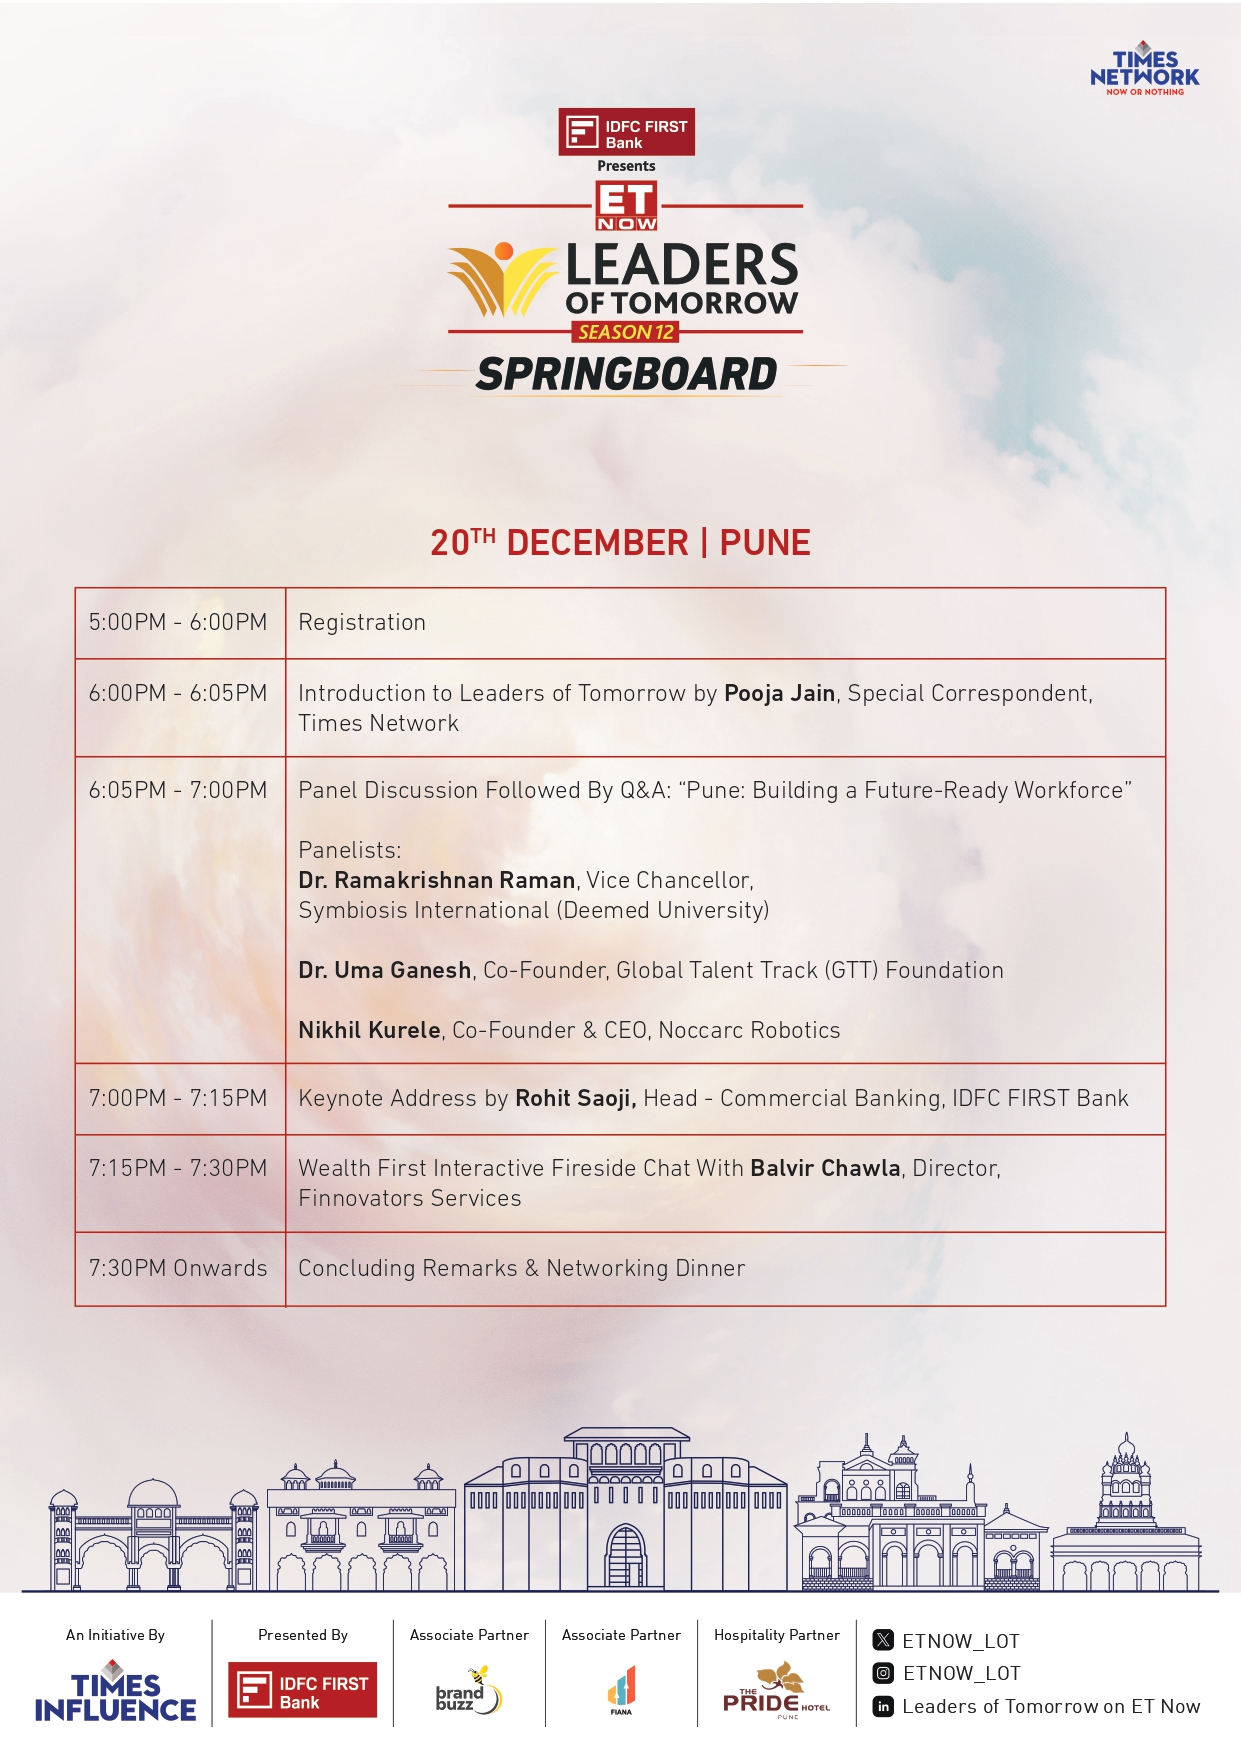
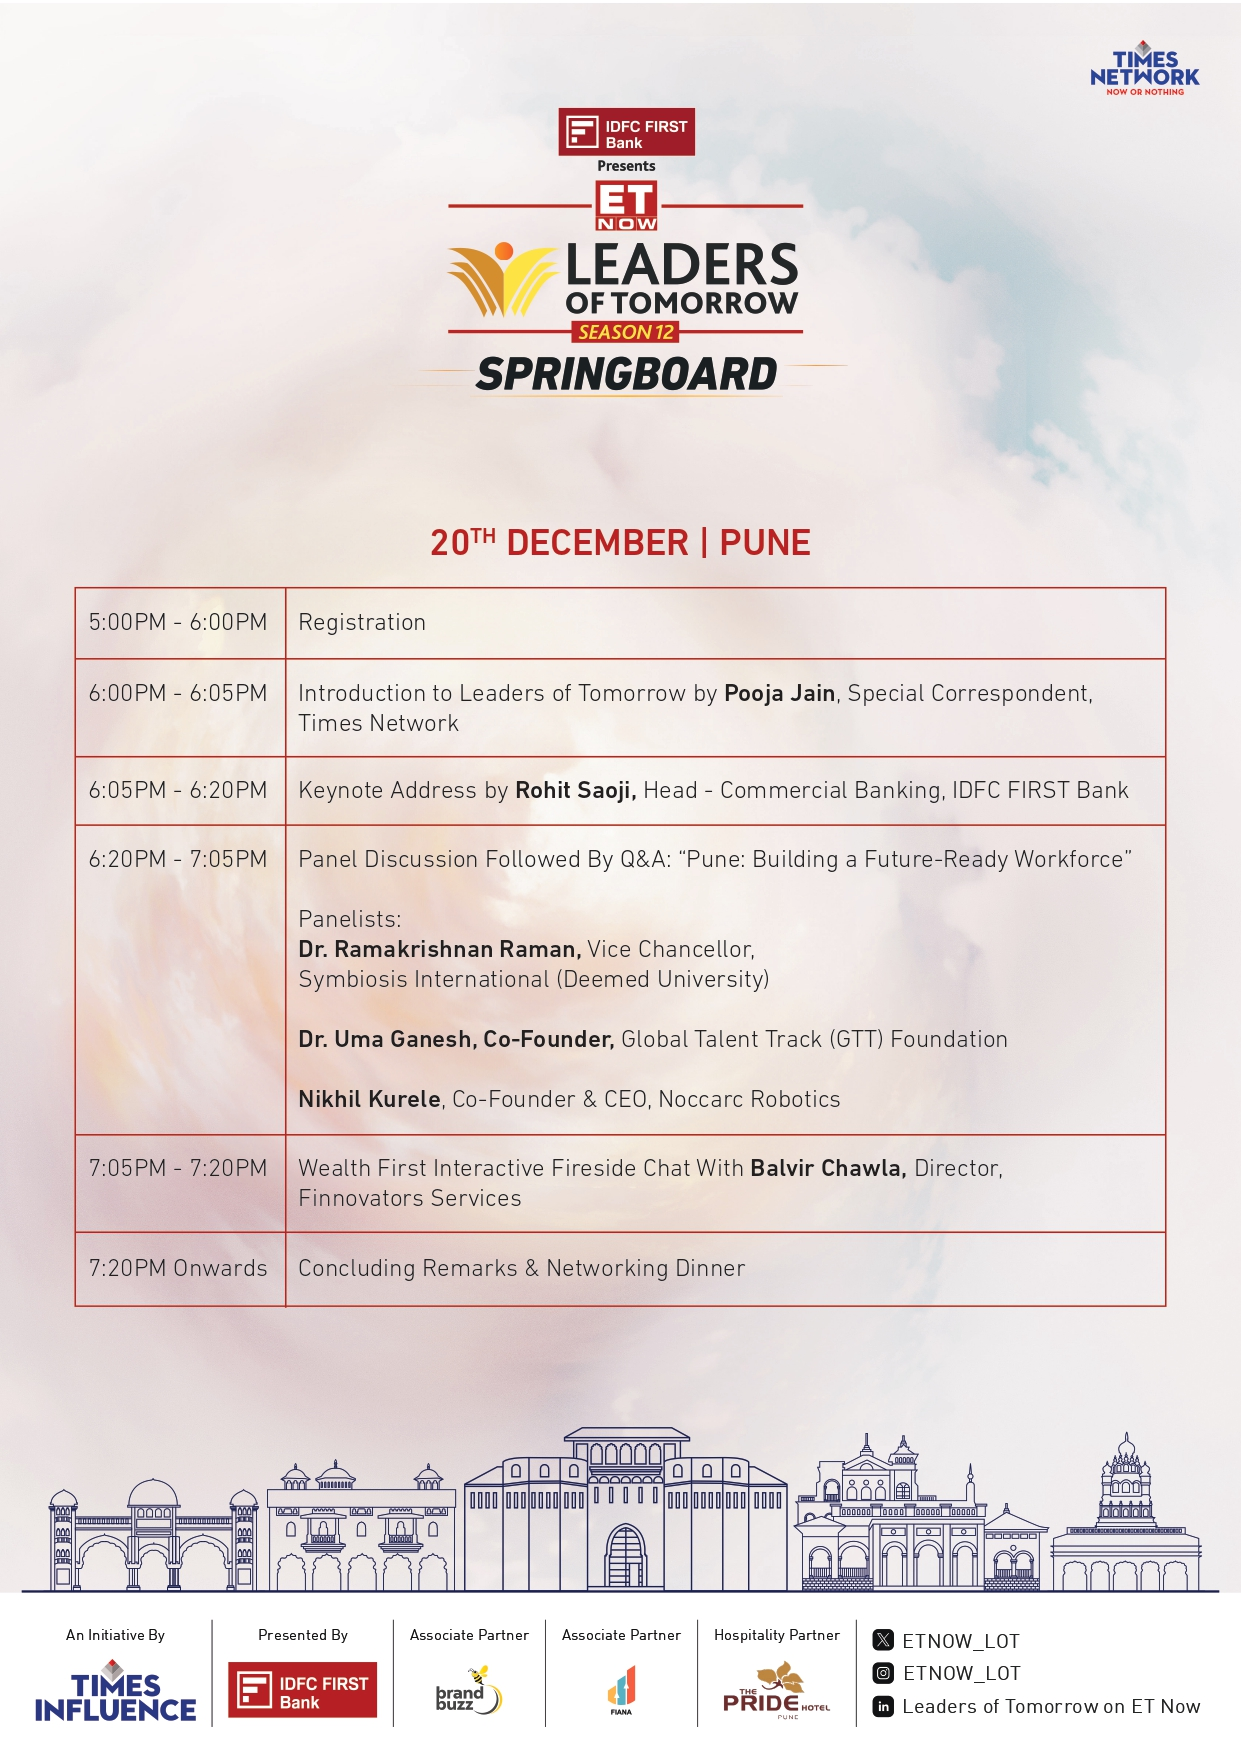
Jaipur, Coimbatore Gallery. Pune Page Full Working

diff --git a/application/controllers/main/CityController.php b/application/controllers/main/CityController.php
@@ -369,7 +369,14 @@ class CityController extends BaseController
 							'name' => "Hemant Beniwal",
 							'description' => "Certified Financial Planner & Director, Ark Primary Advisors",
 						],
-					]
+					],
+					'partners' => [
+						[
+							'text' => 'Hospitality Partner',
+							'logo' => 'Pride.png',
+							'url' => ""
+						],
+					],
 				];
 				$this->load->city_view('jaipur', $this->data);
 				break;
@@ -380,11 +387,11 @@ class CityController extends BaseController
 				$this->data['city'] = [
 					'name' => "Pune",
 					'speakers' => [
-						// [
-						// 	'photo' => "Rohit_Saoji.png",
-						// 	'name' => "Rohit Saoji",
-						// 	'description' => "Head-Commercial Banking, IDFC FIRST Bank",
-						// ],
+						[
+							'photo' => "Rohit_Saoji.png",
+							'name' => "Rohit Saoji",
+							'description' => "Head-Commercial Banking, IDFC FIRST Bank",
+						],
 						[
 							'photo' => "Dr_Raman.png",
 							'name' => "Dr Ramakrishnan Raman",
@@ -524,6 +531,13 @@ class CityController extends BaseController
 				$this->data['page'] = [
 					'title' => "Jaipur Springboard Gallery" . " • " . APP_NAME . " " . date('Y'),
 				];
+				$this->data['city']['partners'] = [
+					[
+						'text' => 'Hospitality Partner',
+						'logo' => 'Pride.png',
+						'url' => ""
+					],
+				];
 				$this->data['city']['name'] = "Jaipur";
 				$this->load->city_view('gallery', $this->data);
 				break;
@@ -553,6 +567,22 @@ class CityController extends BaseController
 		}
 		if ($status) {
 			$this->data['city'] = $sb;
+			switch ($city) {
+				case 'pune':
+				case 'jaipur':
+					$this->data['city']['partners'] = [
+						[
+							'text' => 'Hospitality Partner',
+							'logo' => 'Pride.png',
+							'url' => ""
+						],
+					];
+					break;
+				
+				default:
+					# code...
+					break;
+			}
 			$this->data['page'] = [
 				'title' => $sb['name'] . " Springboard Registrations" . " • " . APP_NAME . " " . date('Y'),
 			];

diff --git a/application/views/main/city/pune.php b/application/views/main/city/pune.php
@@ -61,13 +61,13 @@
 			</div>
 		</div>
 	</section>
-	<section class="section pb-0 d-none">
+	<section class="section pb-0">
 		<div class="container">
 			<div class="row align-items-center">
 				<div class="col-xl-5 col-lg-6 col-md-6 col-12">
 					<div class="media-content" data-aos="fade-right">
 						<!--<iframe class="w-100" src="https://www.youtube.com/watch?v=4yf12kND24M" title="YouTube video player" frameborder="0" allow="accelerometer; autoplay; clipboard-write; encrypted-media; gyroscope; picture-in-picture; web-share" referrerpolicy="strict-origin-when-cross-origin" allowfullscreen></iframe>-->
-						<iframe class="w-100" src="https://www.youtube.com/embed/ZXmypg8ofeY?si=ChkfyFW8NbS5ZEB6" title="YouTube video player" frameborder="0" allow="accelerometer; autoplay; clipboard-write; encrypted-media; gyroscope; picture-in-picture; web-share" referrerpolicy="strict-origin-when-cross-origin" allowfullscreen></iframe>
+						<iframe class="w-100" src="https://www.youtube.com/embed/e0ONUrxiDhk?si=Z2bhQdFRfpIWVnia" title="YouTube video player" frameborder="0" allow="accelerometer; autoplay; clipboard-write; encrypted-media; gyroscope; picture-in-picture; web-share" referrerpolicy="strict-origin-when-cross-origin" allowfullscreen></iframe>
 					</div>
 				</div>
 				<div class="col-xl-7 col-lg-6 col-12">
@@ -137,7 +137,7 @@
 			</div>
 		</div>
 	</section>
-	<section id="speakers" class="pb-0 d-none">
+	<section id="speakers" class="pb-0">
 		<div class="container">
 			<div class="row g-3">
 				<div class="col-12">

diff --git a/application/controllers/PagesController.php b/application/controllers/PagesController.php
@@ -8,9 +8,19 @@ class PagesController extends BaseController
 	{
 		$this->data['articles'] = [
 			[
-				'thumb' => "https://static.tnn.in/thumb/msid-112835531,thumbsize-164428,width-1280,height-720,resizemode-75/112835531.jpg?quality=100",
+				'thumb' => "https://static.tnn.in/thumb/msid-112835556,thumbsize-164428,width-1280,height-720,resizemode-75/112835556.jpg?quality=100",
 				'title' => "Leaders of Tomorrow Season 12: Empowering Indian Entrepreneurs for Global",
 				'redirect' => "https://www.timesnownews.com/india/leaders-of-tomorrow-season-12-empowering-indian-entrepreneurs-for-global-success-article-112835531"
+			],
+			[
+				'thumb' => "https://static.tnn.in/thumb/msid-114681918,thumbsize-164428,width-1280,height-720,resizemode-75/114681918.jpg?quality=100",
+				'title' => "ET Now Leaders of Tomorrow Unveils a Festive Week Special",
+				'redirect' => "https://www.timesnownews.com/leaders-of-tomorrow/et-now-leaders-of-tomorrow-unveils-a-festive-week-special-article-114681918"
+			],
+			[
+				'thumb' => "https://static.tnn.in/thumb/msid-116427400,thumbsize-164428,width-1280,height-720,resizemode-75/116427400.jpg?quality=100",
+				'title' => "6 Entrepreneurial Lessons to Learn from Ankur Warikoo",
+				'redirect' => "https://www.etnownews.com/news/6-entrepreneurial-lessons-to-learn-from-ankur-warikoo-article-116427400"
 			],
 			[
 				'thumb' => "https://static.tnn.in/thumb/msid-110893211,thumbsize-164428,width-1280,height-720,resizemode-75/110893211.jpg?quality=100",

diff --git a/application/views/components/theme/partials/partners/layout-01.php b/application/views/components/theme/partials/partners/layout-01.php
@@ -1,16 +1,12 @@
-<div class="col-12">
-	<div class="partners-nav row m-0 g-3 justify-content-center justify-content-lg-evenly">
-		<?php foreach ($partners as $key => $partner) : ?>
-			<div class="col-md-auto col-sm-6 col-12" data-aos="fade-up" data-aos-delay="<?= 100 * $key ?>">
-				<div class="nav-link text-dark text-center">
-					<p class="mb-3">
-						<?= $partner['text'] ?>
-					</p>
-					<div class="px-3">
-						<a href="<?= $partner['url'] ?>" target="_blank"><img src="<?= base_url('assets/images/cities/' . strtolower($city) . '/partners/') . $partner['logo'] ?>" alt="<?= $partner['text'] ?>" height="80"></a>
-					</div>
-				</div>
+<?php foreach ($partners as $key => $partner) : ?>
+	<div class="col-md-auto col-sm-6 col-12" data-aos="fade-up" data-aos-delay="<?= 100 * $key ?>">
+		<div class="nav-link text-dark text-center">
+			<p class="mb-3">
+				<?= $partner['text'] ?>
+			</p>
+			<div class="px-3">
+				<a href="<?= $partner['url'] ?>" target="_blank"><img src="<?= base_url('assets/images/cities/' . strtolower($city) . '/partners/') . $partner['logo'] ?>" alt="<?= $partner['text'] ?>" height="80"></a>
 			</div>
-		<?php endforeach ?>
+		</div>
 	</div>
-</div>
+<?php endforeach ?>

diff --git a/application/config/config.php b/application/config/config.php
@@ -24,8 +24,8 @@ defined('BASEPATH') OR exit('No direct script access allowed');
 |
 */
 $config['base_url'] = 'https://test.apogeedigitech.in/times/leaders-of-tomorrow/';
-$config['base_url'] = 'https://leadersoftomorrow.co.in/';
 $config['base_url'] = 'http://localhost/times-now/leaders-of-tomorrow/';
+$config['base_url'] = 'https://leadersoftomorrow.co.in/';
 
 /*
 |--------------------------------------------------------------------------

diff --git a/application/views/components/theme/partials/_footer.php b/application/views/components/theme/partials/_footer.php
@@ -133,7 +133,7 @@
 									<h6>Springboard Cities</h6>
 									<ul class="footer-nav nav">
 										<?php foreach ($springboards as $key => $sb) : ?>
-											<?php if ($key < 6) :
+											<?php if ($key < 8) :
 											?>
 												<li class="nav-item">
 													<a class="nav-link" href="<?= base_url('city/' . strtolower($sb['name'])) ?>"><?= $sb['name'] ?></a>

diff --git a/application/config/database.php b/application/config/database.php
@@ -70,8 +70,8 @@ defined('BASEPATH') OR exit('No direct script access allowed');
 | The $query_builder variables lets you determine whether or not to load
 | the query builder class.
 */
-$active_group = 'production';
 $active_group = 'default';
+$active_group = 'production';
 $query_builder = TRUE;
 
 $db['default'] = array(

diff --git a/application/views/components/theme/partials/_partners_sb.php b/application/views/components/theme/partials/_partners_sb.php
@@ -1,7 +1,10 @@
-<?php switch ($this->uri->segment(2)):
+
+<?php 
+switch ($this->uri->segment(2)):
 	case 'coimbatore':
 	case 'pune':
 	case 'indore':
+	case 'jaipur':
 		$data['city'] = $city['name'];
 		$data['partners'] = $city['partners'];
 		$this->load->view('components/theme/partials/partners/layout-01', $data);

diff --git a/application/controllers/BaseController.php b/application/controllers/BaseController.php
@@ -53,7 +53,7 @@ class BaseController extends CI_Controller
 				'name' => "Pune",
 				'theme' => "Building a Future-Ready Workforce ",
 				'date' => '2024-12-20 17:00:00',
-				'venue' => "The Pride Hotel Pune"
+				'venue' => "The Pride Hotel, Shivajinagar, Pune"
 			],
 			[
 				'name' => "Indore",

diff --git a/application/views/layout/_2_sb.php b/application/views/layout/_2_sb.php
@@ -7,7 +7,6 @@
 				</div>
 				<div class="row m-0 mb-3 justify-content-center">
 					<?php $this->load->view('components/theme/partials/_partners'); ?>
-					<?php $this->load->view('components/theme/partials/_partners_sb'); ?>
 				</div>
 			</div>
 		</div>

diff --git a/application/views/main/city/coimbatore.php b/application/views/main/city/coimbatore.php
@@ -205,7 +205,7 @@
 			</div>
 		</div>
 	</section>
-	<section id="gallery" class="d-none">
+	<section id="gallery" class="">
 		<div class="container">
 			<div class="row g-3">
 				<div class="col-12">

diff --git a/application/views/components/theme/partials/partners/season-12/_main.php b/application/views/components/theme/partials/partners/season-12/_main.php
@@ -40,5 +40,6 @@
 				</div>
 			</a>
 		</div>
+		<?php $this->load->view('components/theme/partials/_partners_sb'); ?>
 	</div>
 </div>
